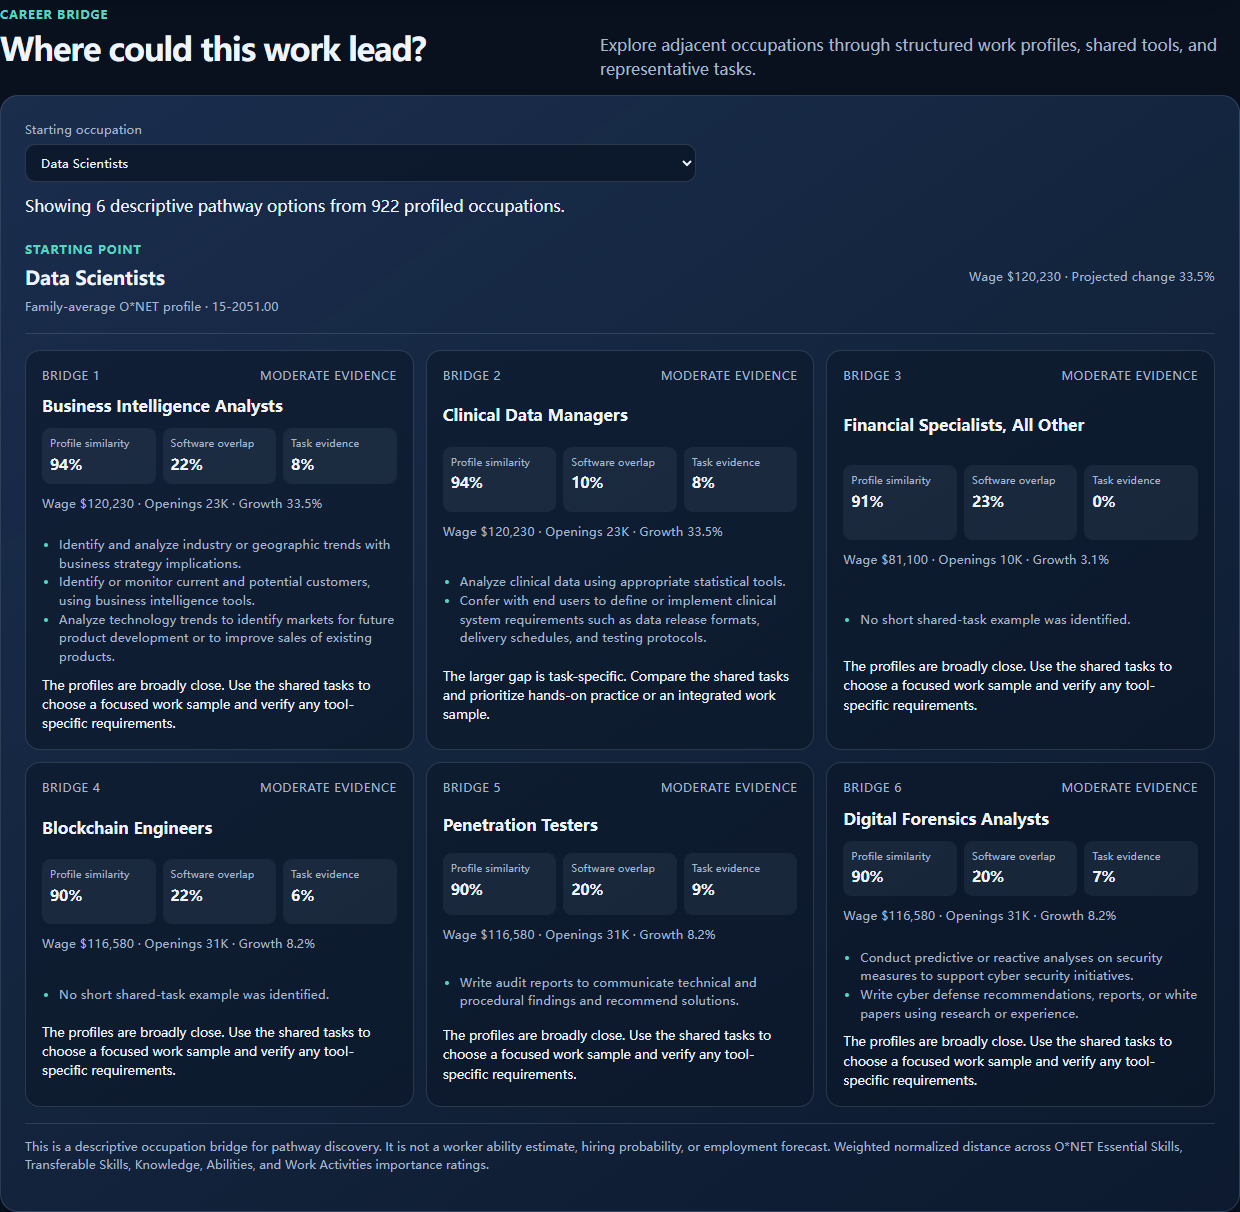
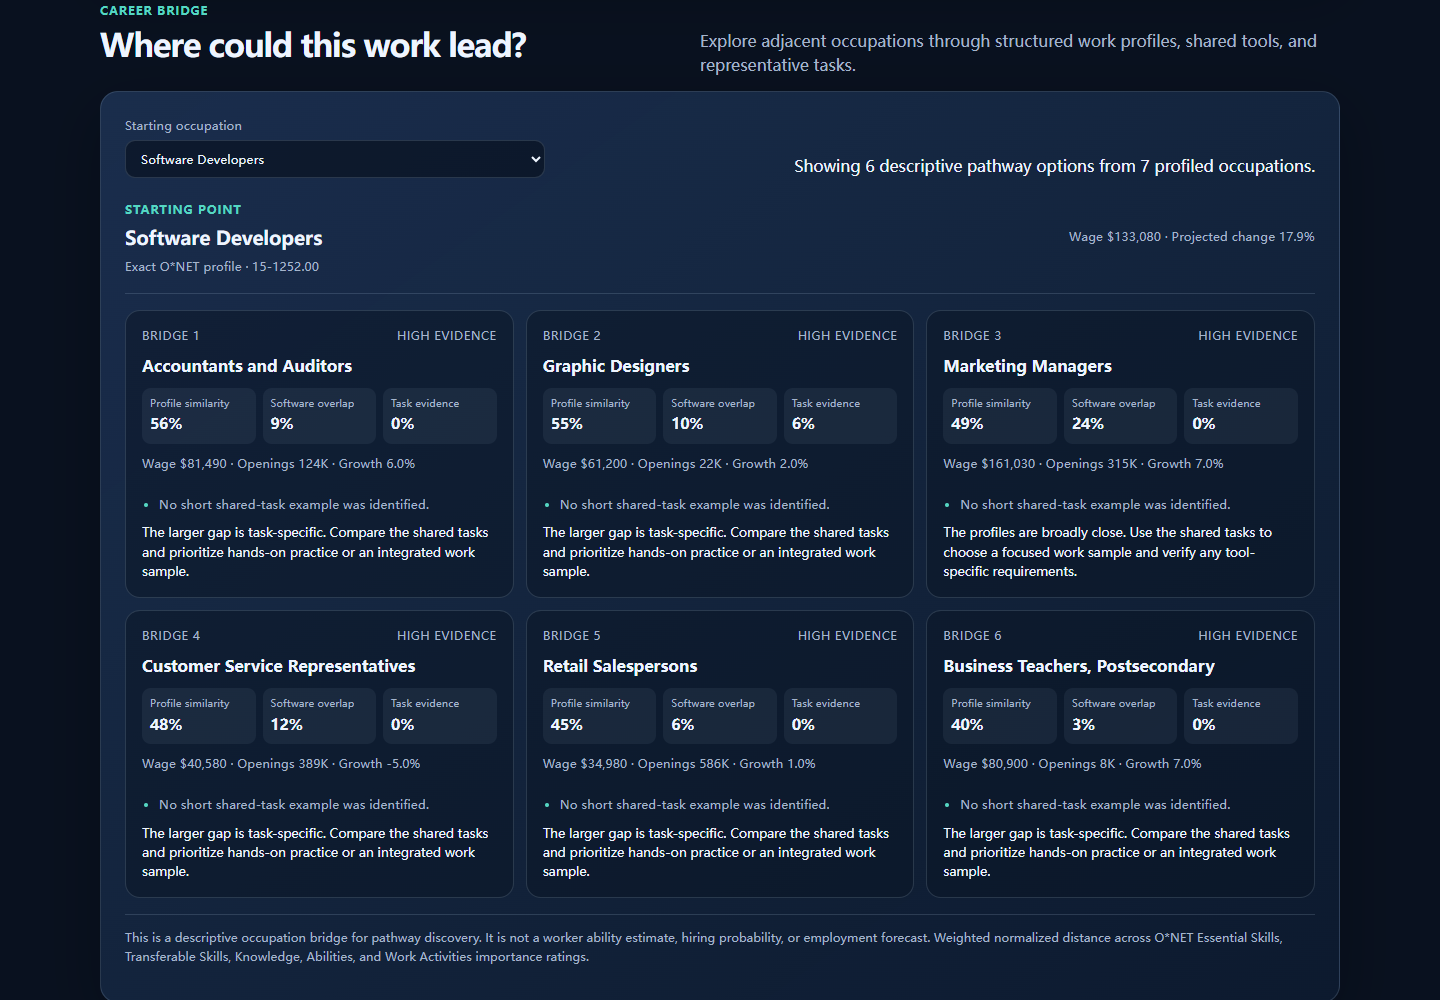
docs: refresh Atlas visual story

Changed region(s): [[0.0, 0.0, 1.0, 1.0], [0.5516, 0.62, 0.9806, 0.899]]

diff --git a/src/ai_labor_atlas/dashboard.py b/src/ai_labor_atlas/dashboard.py
@@ -187,20 +187,20 @@ HTML_TEMPLATE = r"""<!doctype html>
   <main class="shell">
     <header class="topbar">
       <div class="brand"><span class="brand-mark" aria-hidden="true"></span><span class="brand-name">AI Labor Atlas</span></div>
-      <span class="micro">Descriptive research explorer</span>
+      <span class="micro">Occupational intelligence explorer</span>
     </header>
     <section class="hero">
       <div class="hero-copy">
         <div class="hero-badge">U.S. occupations | task-level evidence</div>
-        <h1>Where does AI overlap with work?</h1>
-        <p>This explorer connects occupational tasks, an AI exposure indicator, wages, employment, and projections. It helps you ask better questions about changing work - it does not forecast layoffs.</p>
+        <h1>See how AI is reshaping the work behind occupations.</h1>
+        <p>Connect occupational tasks, AI exposure, wages, employment, and outlook to uncover patterns, compare roles, and explore informed career pathways.</p>
       </div>
     </section>
     <div class="dataset-notice" role="status">__DATASET_NOTICE__</div>
     <section class="kpi-grid" aria-label="Atlas overview">
       <article class="kpi"><span class="label">O*NET occupations</span><strong class="kpi-value" id="kpi-rows">Not available</strong><span class="kpi-context">one record per O*NET occupation after mapping aggregation</span></article>
       <article class="kpi"><span class="label">Exposure coverage</span><strong class="kpi-value" id="kpi-exposure">Not available</strong><span class="kpi-context">aggregated occupations with an exposure value</span></article>
-      <article class="kpi"><span class="label">SOC-employment-weighted relative AI exposure</span><strong class="kpi-value" id="kpi-weighted">Not available</strong><span class="kpi-context">0--100 display scale; not a probability or job-loss forecast</span></article>
+      <article class="kpi"><span class="label">SOC-employment-weighted relative AI exposure</span><strong class="kpi-value" id="kpi-weighted">Not available</strong><span class="kpi-context">0--100 comparison scale, normalized for clear exploration</span></article>
       <article class="kpi"><span class="label">Wage coverage</span><strong class="kpi-value" id="kpi-wage">Not available</strong><span class="kpi-context">occupations with a wage estimate</span></article>
       <article class="kpi"><span class="label">Task coverage</span><strong class="kpi-value" id="kpi-tasks">Not available</strong><span class="kpi-context">occupations with task examples</span></article>
     </section>
@@ -312,7 +312,7 @@ HTML_TEMPLATE = r"""<!doctype html>
       </div>
       <p class="source-note">Source note: The dashboard combines occupational task information, AIOE estimates, and wage, employment, and projection data. AIOE is shown here as a 0--100 relative display scale derived from the signed source values in this release. It preserves ordering but is not a probability, replacement risk, or forecast that a job will disappear. Missing values remain visible rather than being treated as zero. When one O*NET occupation maps to multiple SOC codes, occupation-level reference metrics use the disclosed crosswalk weights; the employment-weighted exposure KPI uses each unique 2018 SOC target once and the selected occupation shows any mapping warning.</p>
     </section>
-    <footer class="footer-row"><span>Occupational evidence for clearer questions about changing work.</span><span>Descriptive analysis, not a forecast of individual job outcomes.</span></footer>
+    <footer class="footer-row"><span>Occupational evidence for clearer decisions about changing work.</span><span>Built from tasks, labor-market data, and transparent methods.</span></footer>
   </main>
   <script id="atlas-data" type="application/json">__ATLAS_DATA__</script>
   <script>

diff --git a/README.md b/README.md
@@ -30,7 +30,7 @@ dashboard to share a different persistent location.
 
 ## Explore the dashboard
 
-The dashboard connects occupational tasks, AI exposure, wages, employment, and projections in one visual view. Run the project locally to explore the interactive experience.
+The dashboard brings occupational tasks, AI exposure, wages, employment, and outlook together in one visual workspace for comparing roles and exploring changing work.
 
 ![AI Labor Atlas dashboard](docs/assets/atlas-dashboard.png)
 
@@ -38,7 +38,7 @@ The dashboard connects occupational tasks, AI exposure, wages, employment, and p
 
 ![AI Labor Atlas career bridge](docs/assets/atlas-career-bridge.png)
 
-The dashboard compares AI exposure with wages, projected employment growth, annual openings, and employment scale. Exposure is a task-applicability indicator—not a probability of job loss—so the page explains the economic meaning and limits of each measure alongside the chart.
+The dashboard compares AI exposure with wages, projected employment growth, annual openings, and employment scale. It pairs the visual comparison with plain-language metric guidance so users can explore the economic context behind each occupation.
 
 The Career bridge view helps users explore adjacent occupations. It uses structured O*NET importance ratings as the primary profile distance, then shows software overlap, supplemental task evidence, labor-market context, and a practical training hint. The bridge is a descriptive pathway tool. It is not a personal ability estimate, a hiring-probability model, or an employment forecast.
 
